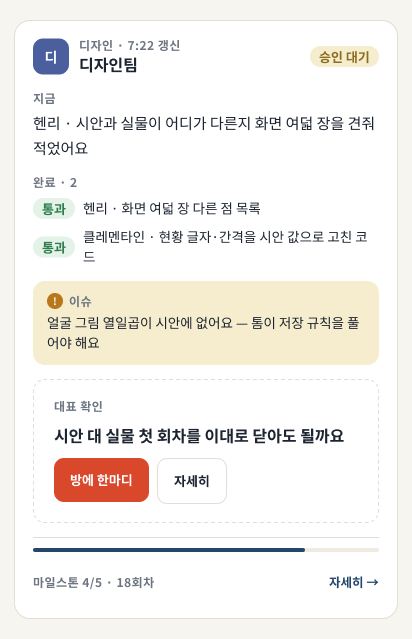
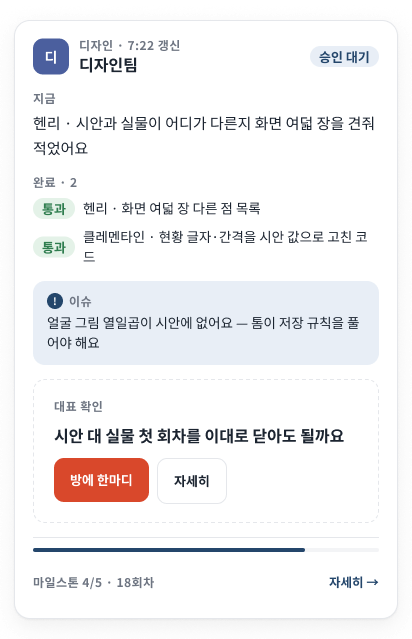
흰 결 = 정본(나리 정정, 대표 15:2x 장부 178, 마크 PASS) — 흰 열세 장이 원래 이름(fig-0916-*.png), 하늘빛 통과 값은 fig-0916-*-sky.png 로 기록. 피그마: '새 결 09-16 — 흰 결' 페이지가 맨 위, 하늘빛 페이지는 변수 묶음 풀어(451 paint) 기록으로. 도시 대조 변수 여섯 흰 값. 대응표 1번 줄 2판 정본. out/screens/2안-흰결/ 은 중복이라 관리 창이 지울 것(제 손엔 rm 없음)

Changed region(s): [[0.0583, 0.4163, 0.932, 0.5947], [0.7573, 0.0595, 0.932, 0.1189]]

diff --git a/teams/design/out/triptude-map.md b/teams/design/out/triptude-map.md
@@ -35,7 +35,7 @@
 
 | # | 우리 부품 (어디) | 트립튜드 변주 | 고른 기준 한 줄 | 바꾸나 · 이유 |
 | --- | --- | --- | --- | --- |
-| 1 | 색 — style.css `:root` 실측: 바탕 `--ground #e7e0d3` · 판 `--panel #fdfbf7` · 판2 `#f4efe4` · 먹 `--ink #1c1a17`·`#4a443b`·`#7a7266`·`#9a9184` · 선 `--line #d6cdbb`·`#ded5c4` · 도장 `--seal #0f5b52` · 대표 `--me #ecc85e` (어두운 화면 한 벌 더 있음, 37행) | **도시 대조 화면**(대표 11:06 기준, `ref/triptude-city-compare-tokens.md`): ground `#F7F5F0` · panel `#FFFFFF` · ink `#1B2430` · muted `#6E7683` · rule `#E3DED4` · soft `#EFEBE3` · 강조 남색 `#24466B`·코랄 `#D9482B`·청록 `#1E7F76`·호박 `#B8771A` · 통과 `#2F7D4F`/`#E4F2E8` · 보류 `#8A6D1F`/`#F6EDCF` · 그림자 `0 1 2 .06 + 0 8 24 .06` | 대표: "아이보리 톤을 밝은 rgb 계열로" — 바탕이 아이보리면 판이 안 뜬다. 그쪽은 아주 옅은 회백 바탕에 순백 판이 옅은 그림자로 뜬다 | **바꿈** — ground→`#F7F5F0`, panel→`#FFFFFF`, ink 넷→ink·muted 둘, line→rule, seal→남색 a, me→호박 c(대표 말풍선). 오사카(B)의 파랑 바탕은 안 쓴다 — 대표가 고른 건 도시 대조 화면이다. **보탬(헨리 09-16, 실물 사진 r20-tower-412·1280 뒤)** — `--rail`(왼 기둥)·`--sunk`(입력·눌린 탭·hover·code) → soft `#EFEBE3`: 이 둘이 아이보리로 남으면 "아이보리 버림"이 안 된다. `--bad`→코랄(7번), `--archive`→rule(22번), `--live`=pick 그대로, `--bad-bg/-line/-dim`·`--me-line`·`--seal-ink`·`--me-ink` 는 출처 없어 그대로. **2안 제안 — 흰 결(나리가 대표 15:2x 원문이라 옮긴 "새 시안쪽 기존 아이보리랑 브라운 빼고, 화이트 배경으로" — 장부에 없어 16:5x 되돌림, 정본은 이 줄 위 1판 값. 흰 판은 피그마 '2안 제안' 페이지와 `out/screens/2안-흰결/` 에, 세라가 제안 꼴로 올린 뒤 대표 한마디면 이 값으로)** — ground `#FFFFFF` · rule `#E5E7EB` · soft(panel-2·rail·sunk) `#F3F4F6` · 호박 c·hold → 남색 `#24466B`(브라운 뺌, 대표 강조는 남색 하나) · holdbg `#E8EEF6` · 크림 `#fff7ea` → `#EEF3F9`(대표 말풍선·여쭙는 상자·대표 결정 대기) · 흰 위 흰 카드라 그림자 `0 1 2 .05 + 0 8 24 .06` 을 켠다(tokens 그림자) · 나머지(ink·muted·코랄·청록·pick) 그대로 |
+| 1 | 색 — style.css `:root` 실측: 바탕 `--ground #e7e0d3` · 판 `--panel #fdfbf7` · 판2 `#f4efe4` · 먹 `--ink #1c1a17`·`#4a443b`·`#7a7266`·`#9a9184` · 선 `--line #d6cdbb`·`#ded5c4` · 도장 `--seal #0f5b52` · 대표 `--me #ecc85e` (어두운 화면 한 벌 더 있음, 37행) | **도시 대조 화면**(대표 11:06 기준, `ref/triptude-city-compare-tokens.md`): ground `#F7F5F0` · panel `#FFFFFF` · ink `#1B2430` · muted `#6E7683` · rule `#E3DED4` · soft `#EFEBE3` · 강조 남색 `#24466B`·코랄 `#D9482B`·청록 `#1E7F76`·호박 `#B8771A` · 통과 `#2F7D4F`/`#E4F2E8` · 보류 `#8A6D1F`/`#F6EDCF` · 그림자 `0 1 2 .06 + 0 8 24 .06` | 대표: "아이보리 톤을 밝은 rgb 계열로" — 바탕이 아이보리면 판이 안 뜬다. 그쪽은 아주 옅은 회백 바탕에 순백 판이 옅은 그림자로 뜬다 | **바꿈** — ground→`#F7F5F0`, panel→`#FFFFFF`, ink 넷→ink·muted 둘, line→rule, seal→남색 a, me→호박 c(대표 말풍선). 오사카(B)의 파랑 바탕은 안 쓴다 — 대표가 고른 건 도시 대조 화면이다. **보탬(헨리 09-16, 실물 사진 r20-tower-412·1280 뒤)** — `--rail`(왼 기둥)·`--sunk`(입력·눌린 탭·hover·code) → soft `#EFEBE3`: 이 둘이 아이보리로 남으면 "아이보리 버림"이 안 된다. `--bad`→코랄(7번), `--archive`→rule(22번), `--live`=pick 그대로, `--bad-bg/-line/-dim`·`--me-line`·`--seal-ink`·`--me-ink` 는 출처 없어 그대로. **2판 흰 결 — 정본(대표 15:2x 관리 창 원문 "새 시안쪽 기존 아이보리랑 브라운 빼고, 화이트 배경으로", 장부 178 · 16:5x 나리가 한 번 되돌렸다가 다시 세움 · 마크 PASS). 하늘빛 1판 값은 이 줄 위, 그림은 `fig-0916-*-sky.png` 와 피그마 '하늘빛 결(sky)' 페이지에 기록만** — ground `#FFFFFF` · rule `#E5E7EB` · soft(panel-2·rail·sunk) `#F3F4F6` · 호박 c·hold → 남색 `#24466B`(브라운 뺌, 대표 강조는 남색 하나) · holdbg `#E8EEF6` · 크림 `#fff7ea` → `#EEF3F9`(대표 말풍선·여쭙는 상자·대표 결정 대기) · 흰 위 흰 카드라 그림자 `0 1 2 .05 + 0 8 24 .06` 을 켠다(tokens 그림자) · 나머지(ink·muted·코랄·청록·pick) 그대로 |
 | 1-b | 어두운 화면(style.css 37행 dark 한 벌) | 도시 대조 화면 어두운 벌: ground `#151A21` · panel `#1D232C` · ink `#EDEAE3` · muted `#A3A9B3` · rule `#2C343F` · soft `#252C36` · 강조 `#8FB4E0`·`#F0846B`·`#5FC2B7`·`#E0AA55` | 대표가 어두운 화면을 보고 계신다(나리 확인) — 밝은 벌만 두면 대표 화면이 안 바뀐다 | **둘 다 둠, 어두운 기본은 뒤로** — 값은 같은 이름의 변수에 밝음·어두움 둘(피그마 모음 '도시 대조' 모드 둘). 화면은 밝은 벌 먼저 — style.css 38행의 어두운 자동 전환(`prefers-color-scheme`)은 밝은 벌이 실물로 선 뒤에 값만 갈아 끼운다. 1판의 "밝은 화면 하나로 통일"은 지운다 |
 | 2 | 글꼴 — IBM Plex Sans KR + Gowun Batang(팀 이름) + Plex Mono(라벨) | D | 글꼴 셋은 한 화면에 한 벌로 안 읽힌다 — 그쪽은 한 글꼴 두 굵기 | **바꿈** — Noto Sans KR Bold·Medium 둘로. Gowun·Mono 버림. 크기는 15/12/11/20 네 단 |
 | 3 | 팀 상황 카드(대시보드 ④ · 채팅 맨 위 · 비서실 말풍선) | **도시 대조 화면**(tokens.md CSS + 대표 그림 `in/triptude/B1-detail-1440.jpg`·`B2j-dossier-1440.jpg`) "부드러운 카드": 순백 판 + rule 1px + **모서리 16**(그림의 카드는 CSS 12 보다 둥글다) + 옅은 두 겹 그림자 + 안여백 14~18 · 눈썹 12 Bold muted · h3 16 700 · 본문 15/1.65 · 칩 13 Bold(통과 pick·보류 hold) · **경고 = 크림 상자 + 호박 ! 원**(B1-detail) · 여쭙는 상자 점선 1px rule 모서리 12 18/20 | 대표: "전체적으로 부드러운 카드 느낌" — 그 실체는 순백 + 1px + 16 + 옅은 그림자 넷이 같이 있는 것. 우리 카드 블록 넷이 그쪽 상자 셋에 하나씩 들어간다 | **바꿈(3판-b = 20:29)** — 팀 원 = 타일 36(팀 색, 모서리 10), 눈썹 = 한글 "디자인 · 7:22 갱신"(muted 12 Bold), 굵은 줄 = 지금(15/25), 완료 = 본문 줄 + 통과 칩(13 Bold), 이슈 = **크림 상자 + 호박 ! 원**(`B1-detail` 경고 상자 그대로), 대표 확인 = 여쭙는 상자(점선) + 코랄 단추, 꼬리 = 12 자간 .04em + 남색 막대, 카드 모서리 16(대표 그림의 카드가 12 보다 둥글다). 오사카 J·K·L 줄은 안 쓴다. **클레멘타인 실측(09-16, `fig-0916-team-card.png`, `tools/pixel/png.mjs` 색 카운트)** — 카드 선 `#e3ded4`(bbox 14,16–397,614, 2840px, 카드 둘레 형태) = 1번 줄 목표 rule `#E3DED4` 와 일치. 모서리 16 은 이 그림에서 아직 좌표로 못 쟀다 |
